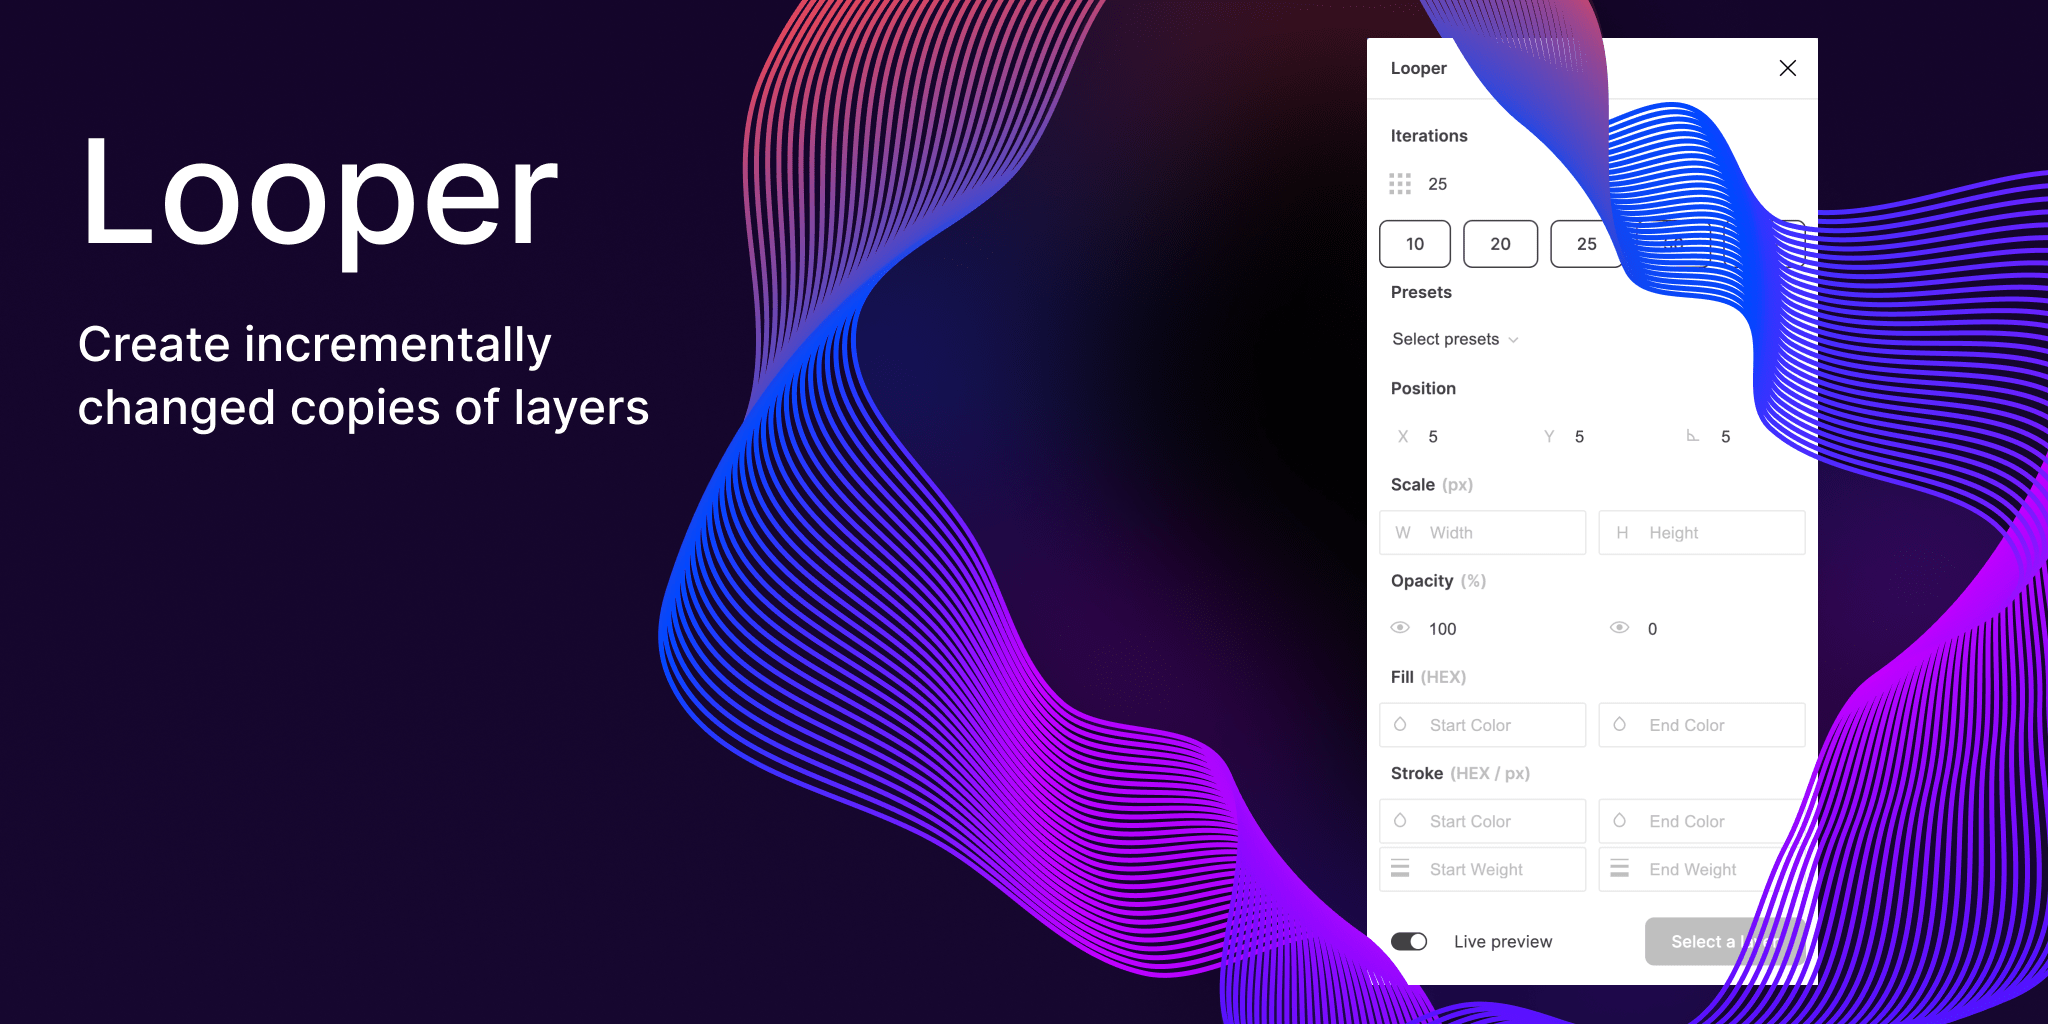
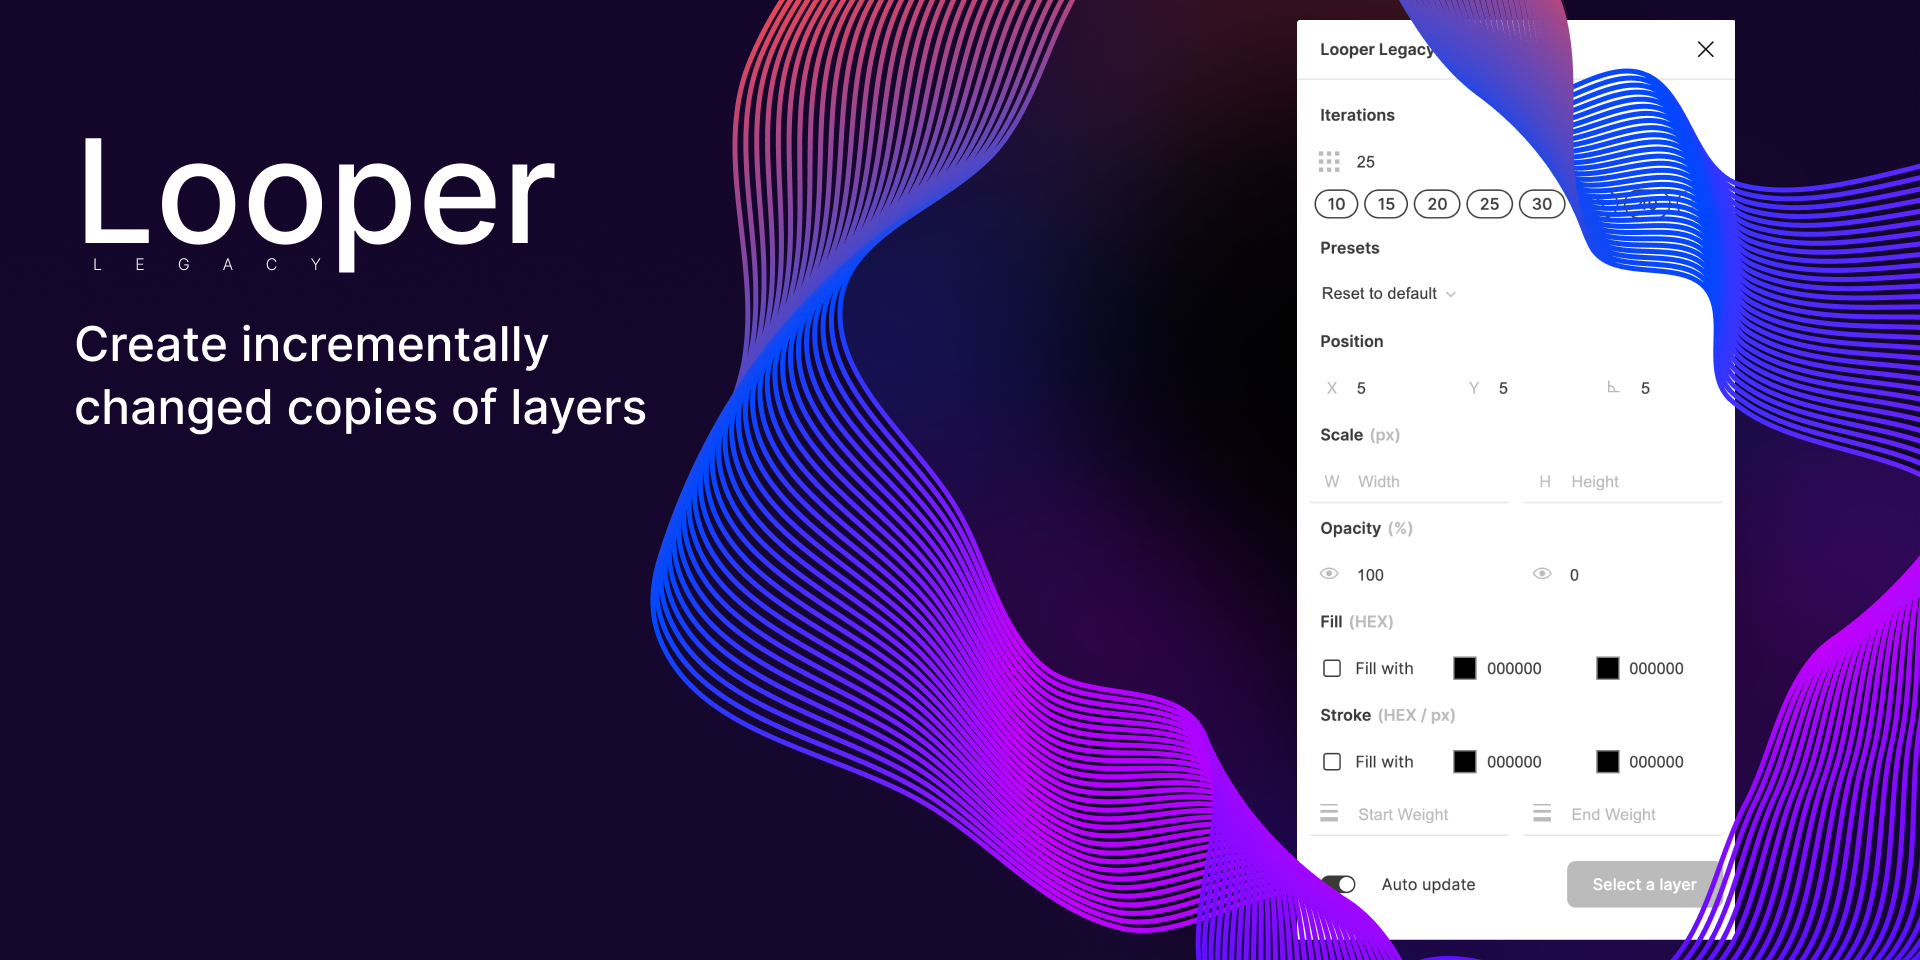
- renamed to Looper Legacy - bug fix to handling config settings on start

diff --git a/src/ui.tsx b/src/ui.tsx
@@ -80,15 +80,22 @@ const App = () => {
   // React to messages
   onmessage = ({ data }) => {
     const message = data.pluginMessage
-
+    
     // Set config
-    if (message.type === 'looper-config' && message.config) {
-      try {
-        setConfigState(message.config)
-        setLoading(true)
-      } catch(e) {
+    if (message.type === 'looper-config') {
+      if (message.config) {
+        try {
+          setConfigState(message.config)
+          console.log('config=lastConfig')
+          setLoading(true)
+        } catch(e) {
+          setConfigState(defaultConfig)
+          console.log('config=defaultConfig in Err')
+          setLoading(true)
+        }
+      } else {
         setConfigState(defaultConfig)
-        console.log('Loaded defaultConfig')
+        console.log('config=defaultConfig')
         setLoading(true)
       }
     }
@@ -109,7 +116,7 @@ const App = () => {
 
   React.useEffect(() => {
     if (loading) {
-       console.log('Loaded last config')
+       console.log('Config loaded')
     }
   }, [loading]);
 
